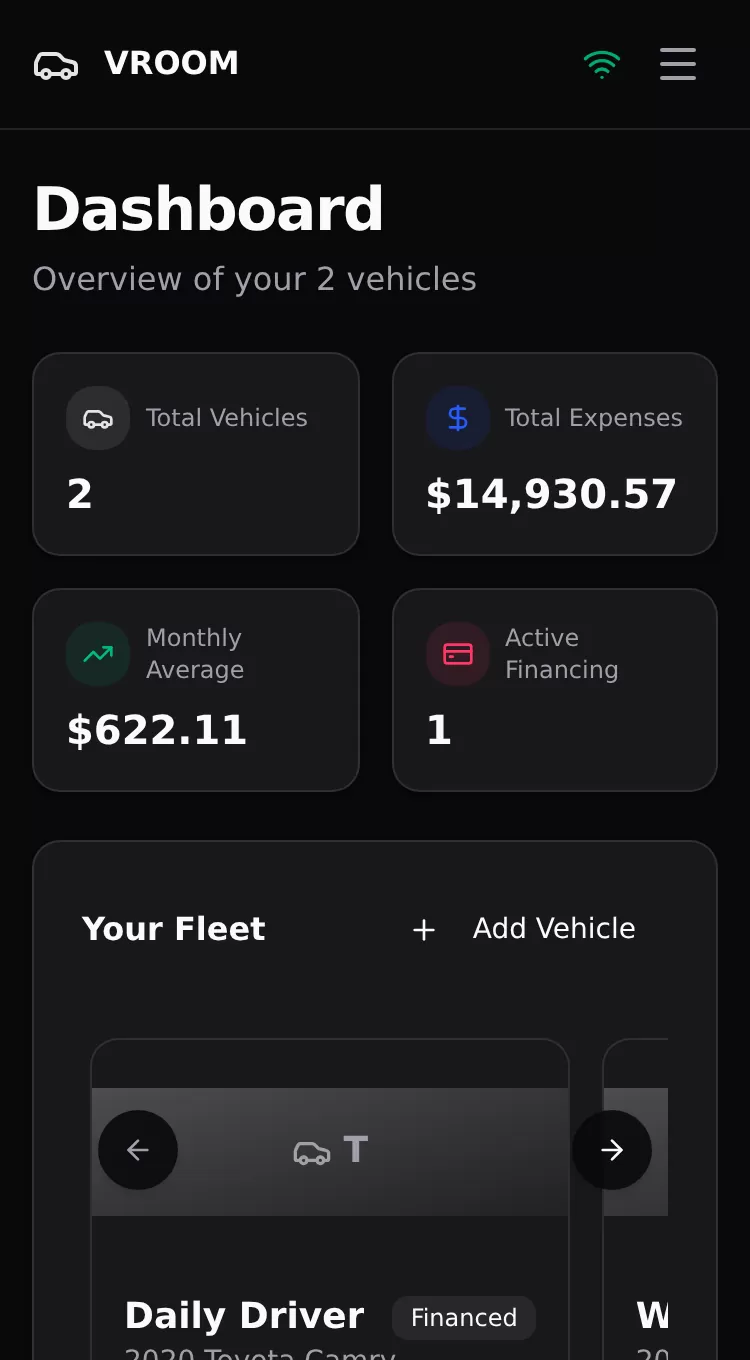
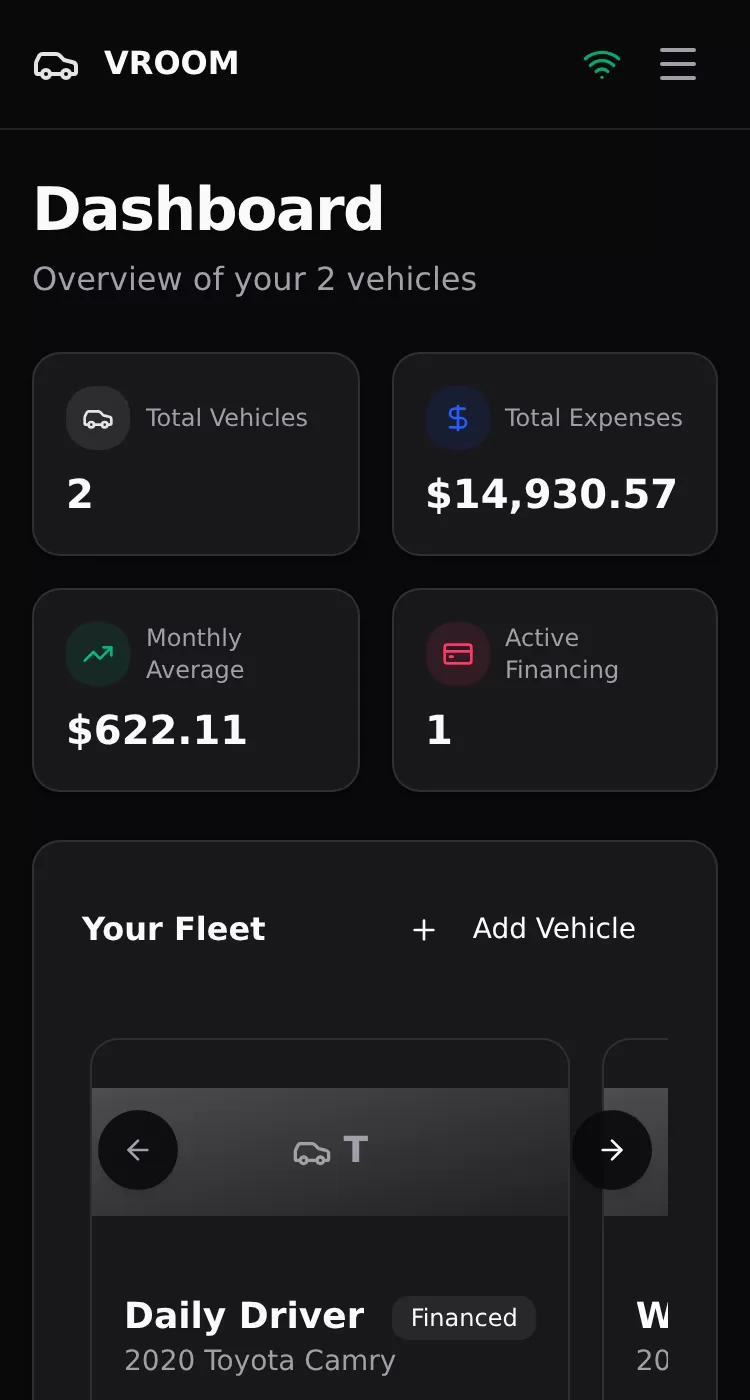
fix(landing): alt text true of both captures, sm-exact media query, uncut phone crop

diff --git a/frontend/src/routes/+page.svelte b/frontend/src/routes/+page.svelte
@@ -156,16 +156,16 @@
 					{#each ['light', 'dark'] as scheme (scheme)}
 						<picture class={scheme === 'light' ? 'block dark:hidden' : 'hidden dark:block'}>
 							<source
-								media="(max-width: 639px)"
+								media="(width < 40rem)"
 								srcset="/landing/dashboard-phone-{scheme}.webp"
 								width="750"
-								height="1360"
+								height="1400"
 							/>
 							<img
 								src="/landing/dashboard-{scheme}.webp"
 								width="1280"
 								height="1180"
-								alt="The VROOM Dashboard with two vehicles: spending totals, the fleet and monthly cost charts"
+								alt="The VROOM Dashboard with two vehicles: spending totals and the fleet"
 								loading="lazy"
 								decoding="async"
 								class="block h-auto w-full"

diff --git a/frontend/src/routes/__tests__/landing-page.test.ts b/frontend/src/routes/__tests__/landing-page.test.ts
@@ -48,9 +48,9 @@ describe('landing page', () => {
 			'/landing/dashboard-phone-dark.webp'
 		]);
 		for (const source of sources) {
-			expect(source?.getAttribute('media')).toBe('(max-width: 639px)');
+			expect(source?.getAttribute('media')).toBe('(width < 40rem)');
 			expect(source?.getAttribute('width')).toBe('750');
-			expect(source?.getAttribute('height')).toBe('1360');
+			expect(source?.getAttribute('height')).toBe('1400');
 		}
 	});
 
